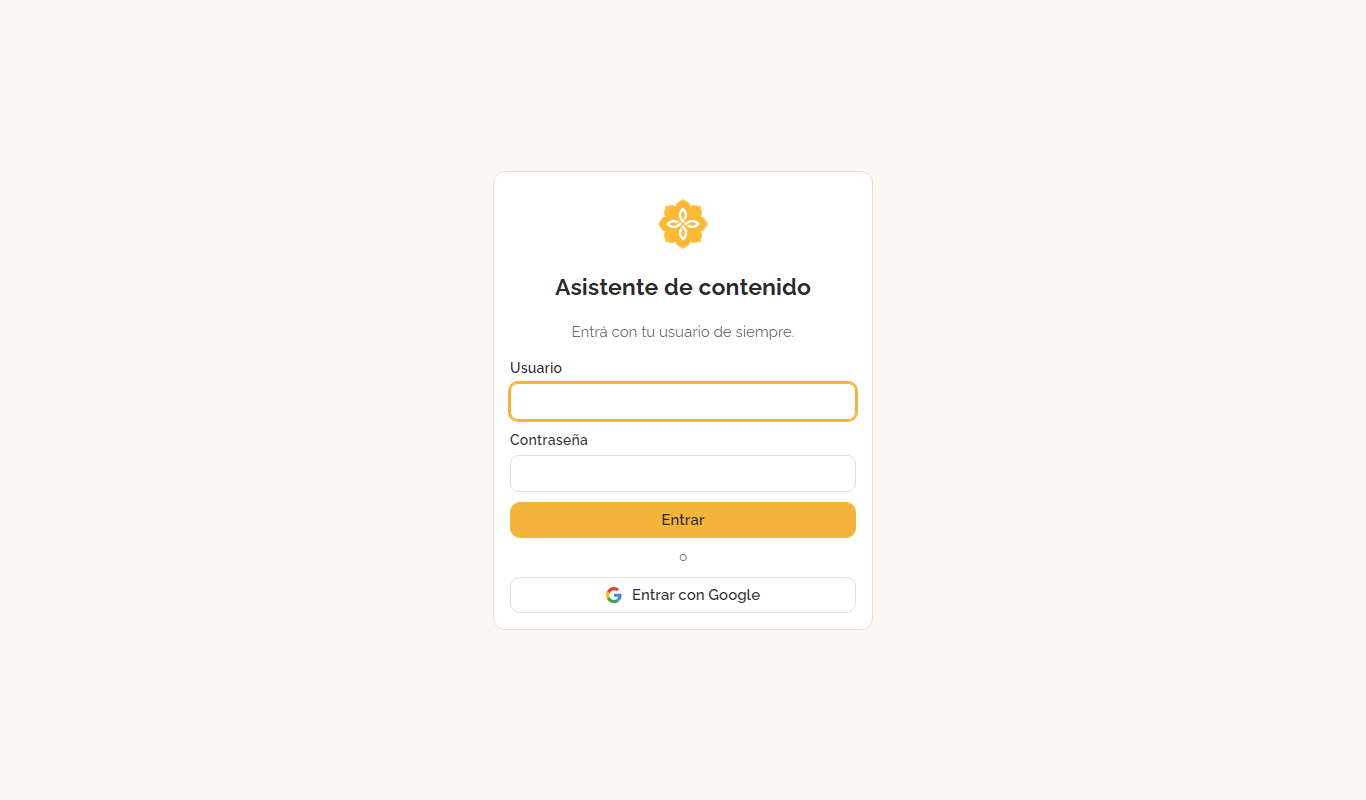
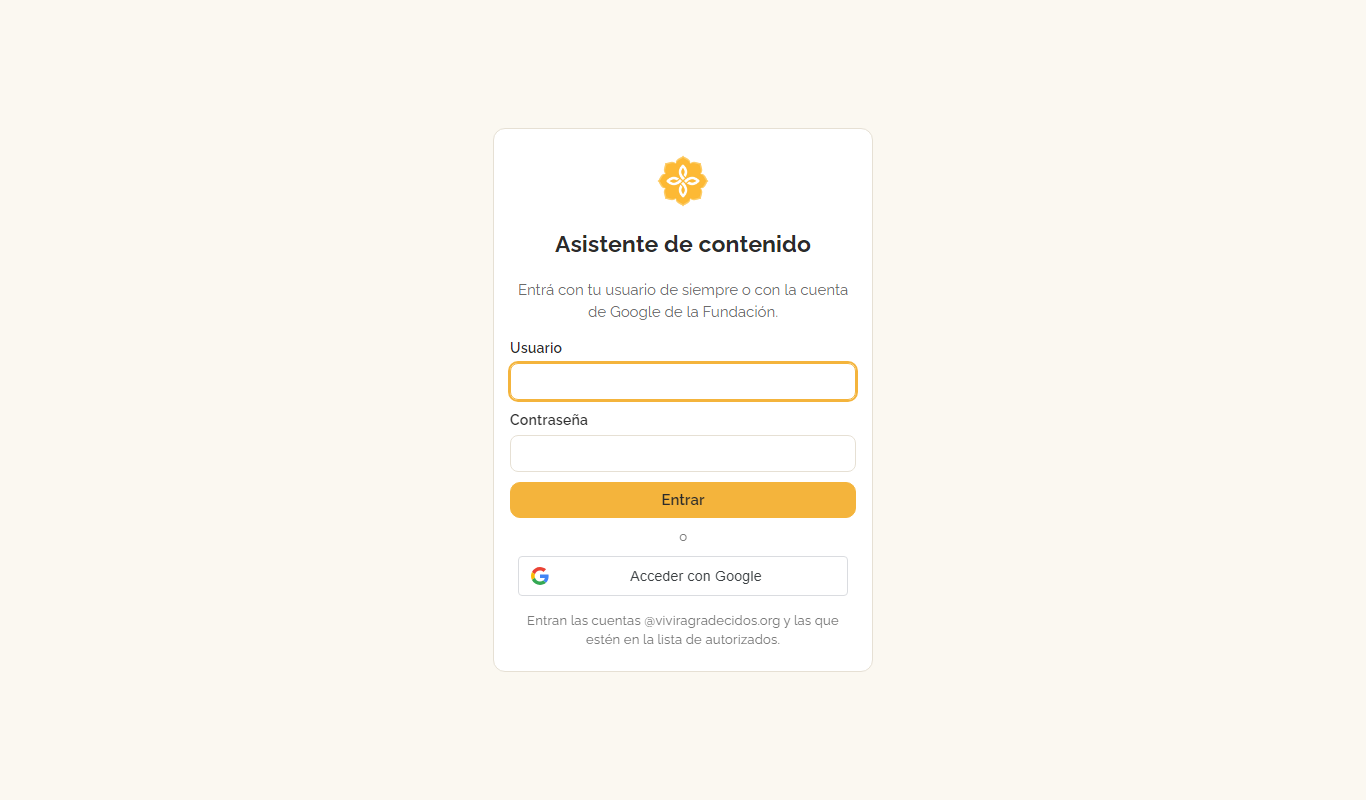
Login con Google en la web: GET /salud publica el client id, la web usa Google Identity Services y manda el id_token a POST /login/google

Changed region(s): [[0.369, 0.5938, 0.6457, 0.8125], [0.369, 0.3438, 0.6457, 0.5625], [0.3997, 0.1875, 0.5842, 0.3125]]

diff --git a/web/src/paginas/Login.tsx b/web/src/paginas/Login.tsx
@@ -1,7 +1,36 @@
-import { useEffect, useState } from "react";
+import { useEffect, useRef, useState } from "react";
 import { Navigate, useLocation, useNavigate } from "react-router-dom";
 import { api, ErrorApi } from "../api";
 import { useSesion } from "../App";
+import type { Yo } from "../tipos";
+
+// Login con Google (21/10, noche): Google Identity Services dibuja el botón; al elegir cuenta devuelve un id_token que se manda a
+// POST /login/google. La API lo verifica con GOOGLE_CLIENT_ID y admite el dominio de la Fundación (DOMINIO_FVA) o la tabla
+// `autorizados`. El client id lo da GET /salud (no es secreto); sin él, el botón queda deshabilitado.
+declare global {
+  interface Window {
+    google?: {
+      accounts: {
+        id: {
+          initialize: (cfg: { client_id: string; callback: (r: { credential: string }) => void; ux_mode?: string; auto_select?: boolean }) => void;
+          renderButton: (el: HTMLElement, cfg: Record<string, string | number>) => void;
+        };
+      };
+    };
+  }
+}
+
+function cargarGis(): Promise<void> {
+  if (window.google?.accounts?.id) return Promise.resolve();
+  return new Promise((ok, mal) => {
+    const s = document.createElement("script");
+    s.src = "https://accounts.google.com/gsi/client";
+    s.async = true;
+    s.onload = () => ok();
+    s.onerror = () => mal(new Error("No pude cargar el login de Google."));
+    document.head.appendChild(s);
+  });
+}
 
 export default function Login() {
   const { yo, setYo } = useSesion();
@@ -11,11 +40,51 @@ export default function Login() {
   const [clave, setClave] = useState("");
   const [error, setError] = useState<string | null>(null);
   const [enviando, setEnviando] = useState(false);
-  const [google, setGoogle] = useState(false);
+  const [clientId, setClientId] = useState<string | null>(null);
+  const [gisListo, setGisListo] = useState(false);
+  const botonGoogle = useRef<HTMLDivElement>(null);
 
   useEffect(() => {
-    api.salud().then((s) => setGoogle(s.login_google)).catch(() => setGoogle(false));
+    api.salud().then((s) => setClientId(s.google_client_id)).catch(() => setClientId(null));
   }, []);
+
+  function entrar_ok(y: Yo) {
+    setYo(y);
+    const desde = (loc.state as { desde?: string } | null)?.desde;
+    nav(desde && desde !== "/login" ? desde : "/recortes", { replace: true });
+  }
+
+  // Dibuja el botón oficial de Google cuando hay client id
+  useEffect(() => {
+    if (!clientId || !botonGoogle.current) return;
+    let vivo = true;
+    cargarGis()
+      .then(() => {
+        if (!vivo || !window.google || !botonGoogle.current) return;
+        window.google.accounts.id.initialize({
+          client_id: clientId,
+          auto_select: false,
+          callback: async (r) => {
+            setError(null);
+            setEnviando(true);
+            try {
+              entrar_ok(await api.loginGoogle(r.credential));
+            } catch (err) {
+              setError(err instanceof ErrorApi ? err.message : "No pude entrar con Google.");
+            } finally {
+              setEnviando(false);
+            }
+          },
+        });
+        window.google.accounts.id.renderButton(botonGoogle.current, { theme: "outline", size: "large", text: "signin_with", locale: "es", width: 330 });
+        setGisListo(true);
+      })
+      .catch((e: Error) => setError(e.message));
+    return () => {
+      vivo = false;
+    };
+    // eslint-disable-next-line react-hooks/exhaustive-deps
+  }, [clientId]);
 
   if (yo) return <Navigate to="/recortes" replace />;
 
@@ -24,13 +93,9 @@ export default function Login() {
     setError(null);
     setEnviando(true);
     try {
-      const y = await api.login(usuario.trim(), clave);
-      setYo(y);
-      const desde = (loc.state as { desde?: string } | null)?.desde;
-      nav(desde && desde !== "/login" ? desde : "/recortes", { replace: true });
+      entrar_ok(await api.login(usuario.trim(), clave));
     } catch (err) {
-      const m = err instanceof ErrorApi ? err.message : "No pude conectarme con la API.";
-      setError(m);
+      setError(err instanceof ErrorApi ? err.message : "No pude conectarme con la API.");
     } finally {
       setEnviando(false);
     }
@@ -41,7 +106,7 @@ export default function Login() {
       <form className="tarjeta login-caja" onSubmit={entrar}>
         <img src="/logo.png" alt="Vivir Agradecidos" className="login-logo" />
         <h1>Asistente de contenido</h1>
-        <p className="suave">Entrá con tu usuario de siempre.</p>
+        <p className="suave">Entrá con tu usuario de siempre o con la cuenta de Google de la Fundación.</p>
         <label>
           Usuario
           <input value={usuario} onChange={(e) => setUsuario(e.target.value)} autoComplete="username" autoFocus required />
@@ -55,15 +120,24 @@ export default function Login() {
           {enviando ? "Entrando…" : "Entrar"}
         </button>
         <div className="separador">o</div>
-        <button
-          type="button"
-          className="boton"
-          disabled={!google}
-          title={google ? "Entrar con la cuenta de Google de la Fundación" : "Todavía no está configurado: falta el proyecto de Google Cloud (GOOGLE_CLIENT_ID)."}
-        >
-          <GoogleIcono /> Entrar con Google
-        </button>
-        {!google && <p className="suave chico">El login con Google se habilita cuando esté el proyecto de Google Cloud.</p>}
+        <div className="google-caja">
+          <div ref={botonGoogle} style={{ display: gisListo ? "flex" : "none", justifyContent: "center" }} />
+          {!gisListo && (
+            <button
+              type="button"
+              className="boton"
+              disabled
+              title={clientId ? "Cargando el login de Google…" : "Todavía no está configurado: falta GOOGLE_CLIENT_ID en la API."}
+            >
+              <GoogleIcono /> Entrar con Google
+            </button>
+          )}
+        </div>
+        {clientId ? (
+          <p className="suave chico">Entran las cuentas @viviragradecidos.org y las que estén en la lista de autorizados.</p>
+        ) : (
+          <p className="suave chico">El login con Google se habilita cuando la API tenga el proyecto de Google Cloud.</p>
+        )}
       </form>
     </div>
   );

diff --git a/web/src/api.ts b/web/src/api.ts
@@ -33,7 +33,8 @@ async function pedir<T>(ruta: string, init: RequestInit = {}): Promise<T> {
 }
 
 export const api = {
-  salud: () => pedir<{ ok: boolean; supabase: boolean; login_google: boolean }>("/salud"),
+  salud: () => pedir<{ ok: boolean; supabase: boolean; login_google: boolean; google_client_id: string | null }>("/salud"),
+  loginGoogle: (id_token: string) => pedir<Yo>("/login/google", { method: "POST", body: JSON.stringify({ id_token }) }),
   yo: () => pedir<Yo>("/yo"),
   login: (usuario: string, clave: string) => pedir<Yo>("/login", { method: "POST", body: JSON.stringify({ usuario, clave }) }),
   logout: () => pedir<{ ok: boolean }>("/logout", { method: "POST" }),

diff --git a/api/main.py b/api/main.py
@@ -58,6 +58,7 @@ def salud():
     n = len(nucleo._FRS) if nucleo._FRS is not None else 0
     return {"ok": True, "corpus_fragmentos": n, "corpus_cargado": n > 0, "supabase": db.disponible(),
             "modelo": nucleo._modelo(), "login_google": bool(os.environ.get("GOOGLE_CLIENT_ID")),
+            "google_client_id": os.environ.get("GOOGLE_CLIENT_ID", "").strip() or None,   # (21/10 noche) lo usa el botón de la web; no es secreto
             "dominio_fva": config.dominio_fva()}
 
 

diff --git a/api/tests/test_api.py b/api/tests/test_api.py
@@ -13,6 +13,7 @@ def test_salud(cliente):
     assert r.status_code == 200
     d = r.json()
     assert d["ok"] is True and d["supabase"] is False and d["corpus_cargado"] is False
+    assert d["login_google"] is False and d["google_client_id"] is None
 
 
 def test_login_bueno(cliente):

diff --git a/web/README.md b/web/README.md
@@ -8,8 +8,12 @@ recortes de esta fase) y no toca Streamlit, que sigue en producción. Las captur
 
 ## Qué hay
 
-- **Login** con usuario y contraseña (los mismos de siempre, `POST /login`). El botón «Entrar con Google» está dibujado pero
-  deshabilitado hasta que exista `GOOGLE_CLIENT_ID` en la API (lo dice `GET /salud`).
+- **Login** con usuario y contraseña (los mismos de siempre, `POST /login`) y **con Google** (Google Identity Services: el botón
+  oficial devuelve un `id_token` que va a `POST /login/google`; la API lo verifica con `GOOGLE_CLIENT_ID` y admite las cuentas
+  `@viviragradecidos.org` (`DOMINIO_FVA`) o las de la tabla `autorizados`). El client id lo publica `GET /salud`; si la API no lo
+  tiene, el botón queda deshabilitado. Orígenes autorizados en Google Cloud: `http://localhost:5173`, `http://localhost:8000`,
+  `http://127.0.0.1:8000` (hay que agregar el dominio de producción cuando exista). No se probó con una cuenta real: el botón
+  carga y abre el selector de Google; el rechazo de un token inválido sí se probó (401).
 - **Barra lateral**: «Mis recortes» (esta pantalla) y dos links que por ahora abren la app de Streamlit en producción
   («Chat» y «Mis publicaciones», URL en `VITE_STREAMLIT_URL`). En celular se vuelve una barra arriba.
 - **Recortes**: solapas «Mis recortes», «👥 Del equipo» (los listos de otras personas: abrir, sin editar ni borrar) y
@@ -97,6 +101,7 @@ corre en local.
 - **Publicar** desde la tarjeta: no está (fase 3); «Mis publicaciones» y el chat abren Streamlit.
 - **Estilo por defecto del equipo**: la API lo expone (`GET/PUT /recortes/estilo-defecto`), la web todavía no tiene la pantalla
   de admin (sigue en Panel admin → Clips de Streamlit).
-- **Login con Google**: botón listo, falta el proyecto de Google Cloud (`GOOGLE_CLIENT_ID`) y el mapeo usuario ↔ email.
+- **Login con Google**: funciona contra la API local (sin probar con una cuenta real); falta el mapeo usuario ↔ email del historial
+  y agregar el dominio de producción a los orígenes autorizados.
 - **Hosting y dominio**: Vercel + Railway/Render o el VPS; CORS y `COOKIE_SAMESITE` dependen de eso.
 - **Idiomas**: la pantalla está solo en español (las cuentas en/de del plan quedan para la fase 2).

diff --git a/api/README.md b/api/README.md
@@ -28,7 +28,7 @@ En `db.py` se agregaron al final (sin cambiar las existentes): `cargar_conversac
 
 | Método y ruta | Quién | Qué devuelve |
 |---|---|---|
-| `GET /salud` | nadie | ok, fragmentos cargados, Supabase sí/no, modelo, si está configurado Google |
+| `GET /salud` | nadie | ok, fragmentos cargados, Supabase sí/no, modelo, si está configurado Google y el `google_client_id` (lo usa el botón de la web; no es secreto) |
 | `POST /login` `{usuario, clave}` | — | pone la cookie; devuelve lo mismo que `/yo` |
 | `POST /login/google` `{id_token}` | — | verifica el token con Google; admite si el email termina en `DOMINIO_FVA` o está en `autorizados` |
 | `POST /logout` | — | borra la cookie |
